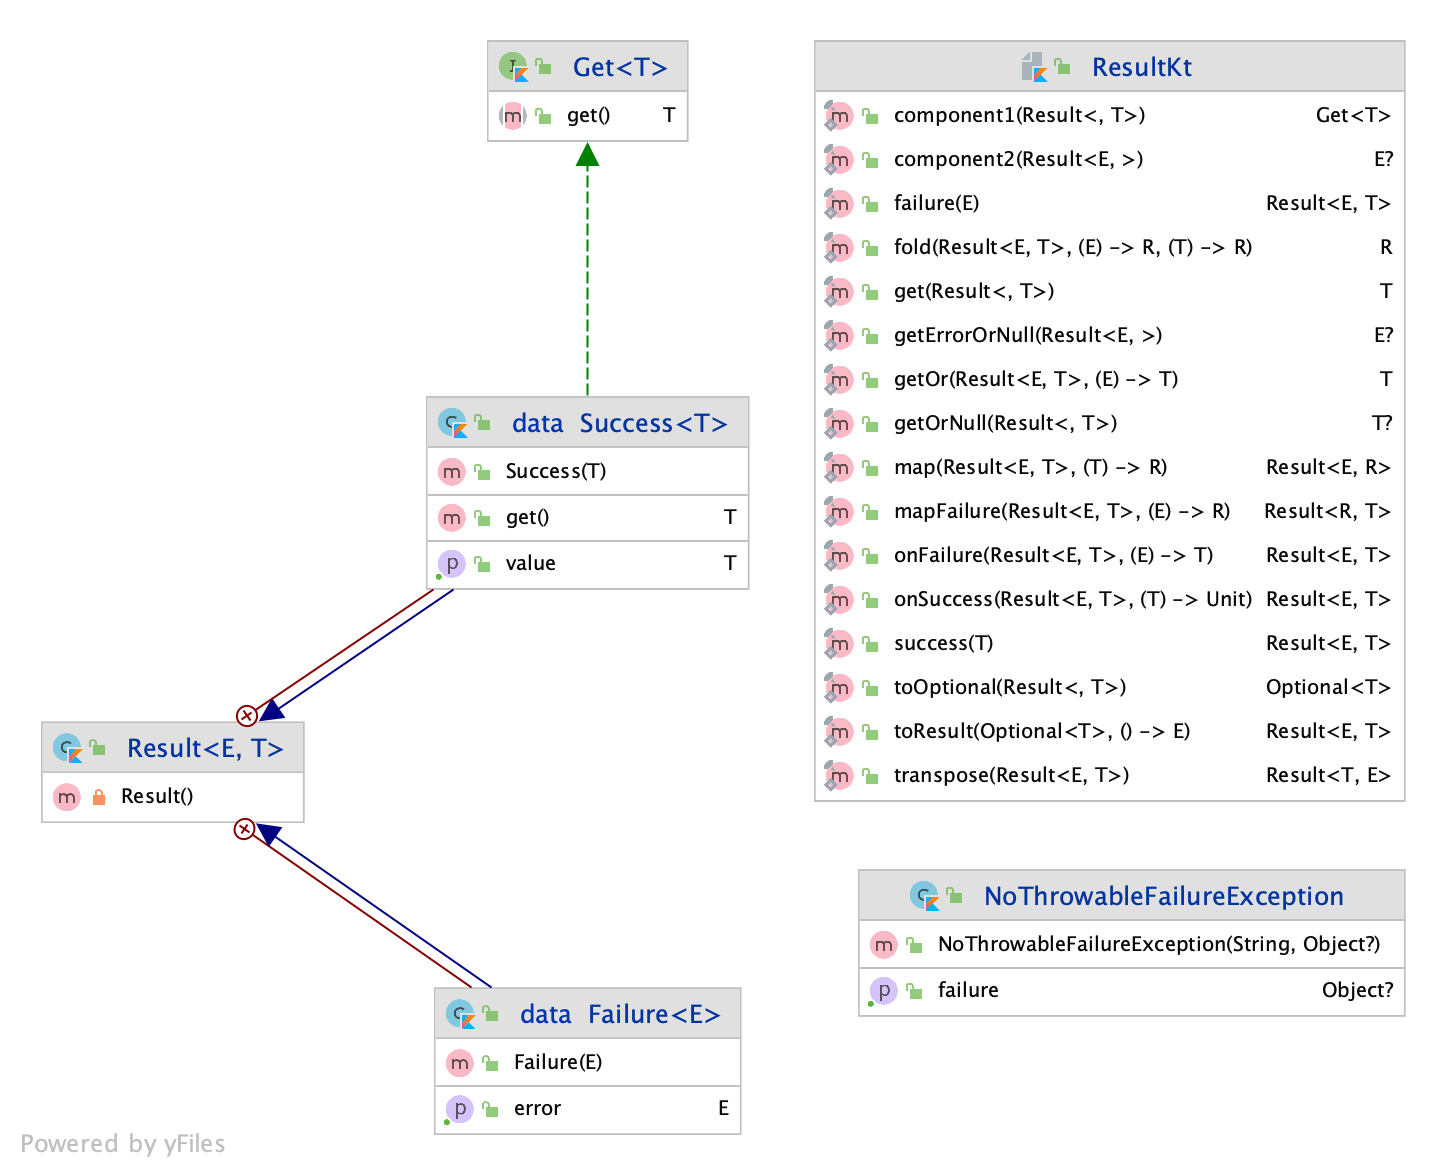
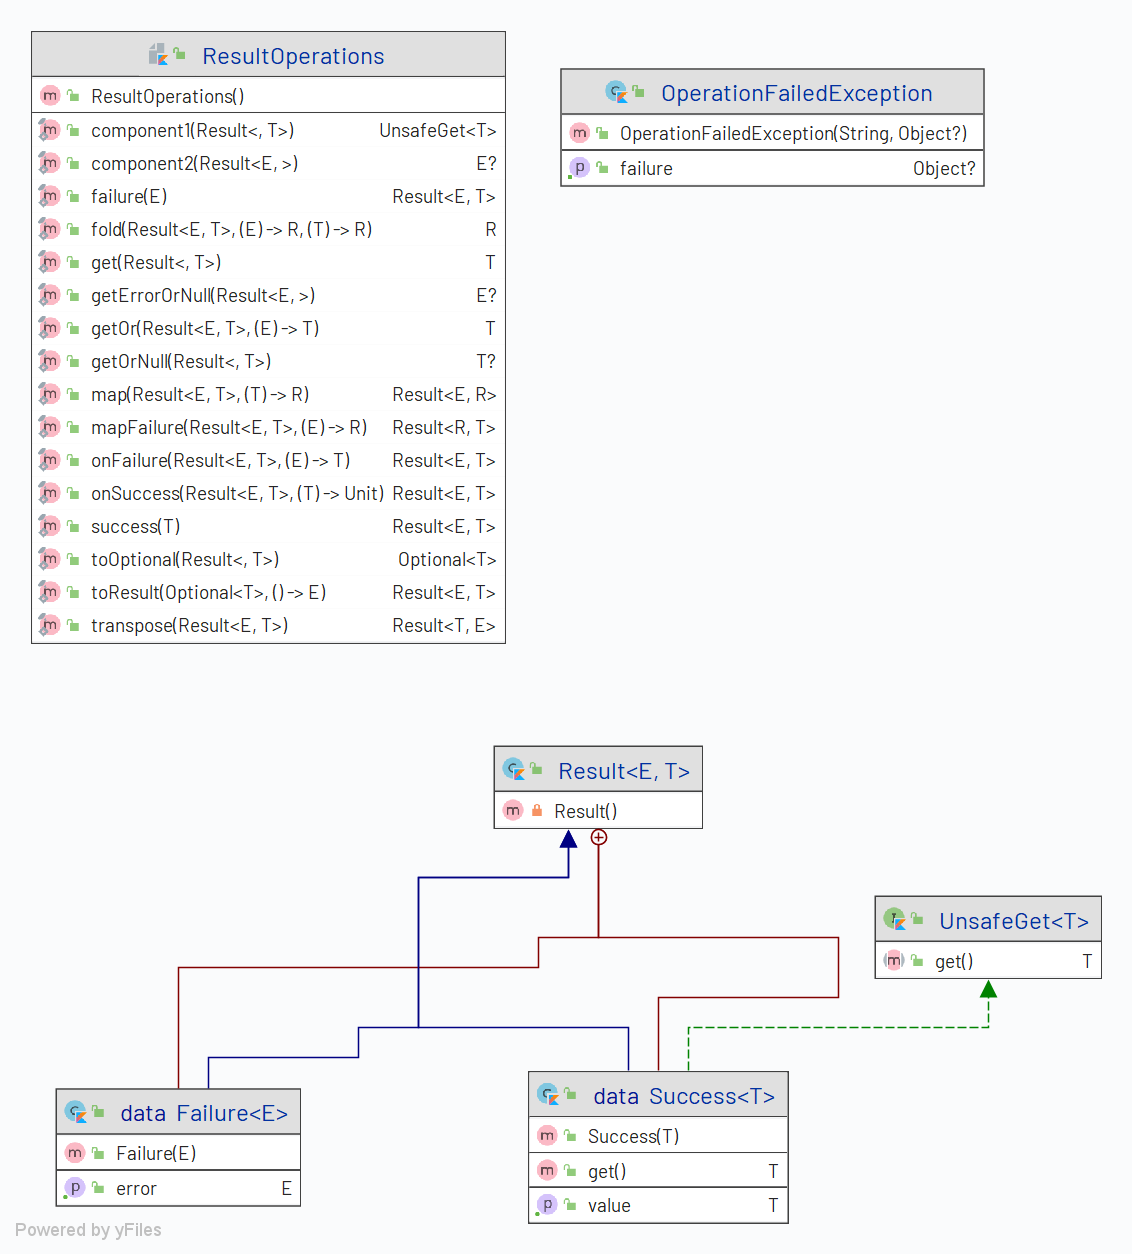
Updated docs.

diff --git a/lib/src/main/kotlin/andriesfc/kotlin/resultk/Result.kt b/lib/src/main/kotlin/andriesfc/kotlin/resultk/Result.kt
@@ -1,22 +1,59 @@
+@file:JvmName("ResultOperations")
 package andriesfc.kotlin.resultk
 
 import java.util.Optional
 import kotlin.jvm.Throws
 
+/**
+ * Result is an sealed type which represents a result of an operation. A result can either be a [Success], or an [Failure].
+ * This type is specifically designed to provide explicit and precise control over results produced by a function, or an
+ * API.
+ *
+ * @param E The error type
+ * @param T The successful/expected value.
+ */
 sealed class Result<out E, out T> {
-    data class Success<T>(val value: T) : Result<Nothing, T>(), Get<T> {
+
+    /**
+     * A successful/expected value.
+     *
+     * @property value The value returned.
+     */
+    data class Success<T>(val value: T) : Result<Nothing, T>(), UnsafeGet<T> {
         override fun get(): T = value
     }
 
+    /**
+     * A failure/error value.
+     *
+     * @property error The error returned as an result.
+     */
     data class Failure<E>(val error: E) : Result<E, Nothing>()
 }
 
-fun interface Get<out T> {
-    @Throws(NoThrowableFailureException::class)
+/**
+ * A functional interface representing value which may throw an exception if the underlying value is a error.
+ */
+fun interface UnsafeGet<out T> {
+
+    /**
+     * Returns the expected value
+     *
+     * @throws OperationFailedException if the underlying failure result is not an exception, otherwise the underlying
+     * exception is simply thrown.
+     */
+    @Throws(OperationFailedException::class)
     fun get(): T
 }
 
+/**
+ * Wraps this value of [T] as [Result.Success]
+ */
 fun <E, T> T.success(): Result<E, T> = Result.Success(this)
+
+/**
+ * Wraps this value of [E] as [Result.Failure]
+ */
 fun <E, T> E.failure(): Result<E, T> = Result.Failure(this)
 
 fun <E> Result<E, *>.getErrorOrNull(): E? {
@@ -53,12 +90,12 @@ fun <T> Result<*, T>.get(): T {
     return getOr { e ->
         when (e) {
             is Throwable -> throw e
-            else -> throw NoThrowableFailureException("Expected value, but found $e instead.", e)
+            else -> throw OperationFailedException("Failure found (instead of an result): $e.", e)
         }
     }
 }
 
-class NoThrowableFailureException(message: String, val failure: Any?) : IllegalStateException(message)
+class OperationFailedException(message: String, val failure: Any?) : IllegalStateException(message)
 
 fun <T> Result<*, T>.getOrNull(): T? = getOr { null }
 
@@ -86,11 +123,11 @@ fun <T> Result<*, T>.toOptional(): Optional<T> {
     }
 }
 
-operator fun <T> Result<*, T>.component1(): Get<T> = when (this) {
-    is Result.Failure -> Get {
+operator fun <T> Result<*, T>.component1(): UnsafeGet<T> = when (this) {
+    is Result.Failure -> UnsafeGet {
         when (error) {
             is Throwable -> throw error
-            else -> throw NoThrowableFailureException("Expected success, but found error instead: $error", error)
+            else -> throw OperationFailedException("Expected success, but found error instead: $error", error)
         }
     }
     is Result.Success -> this

diff --git a/lib/src/test/kotlin/andriesfc/kotlin/resultk/ResultDemo.kt b/lib/src/test/kotlin/andriesfc/kotlin/resultk/ResultDemo.kt
@@ -298,7 +298,7 @@ internal class ResultDemo {
             when (beansCounted) {
                 null -> {
                     assertThat(counterError).isEqualTo("unknown_bean_counting_error")
-                    assertThrows<NoThrowableFailureException> { counted.get() }
+                    assertThrows<OperationFailedException> { counted.get() }
                 }
                 else -> {
                     assertThat(counted.get()).isEqualTo(beansCounted)
